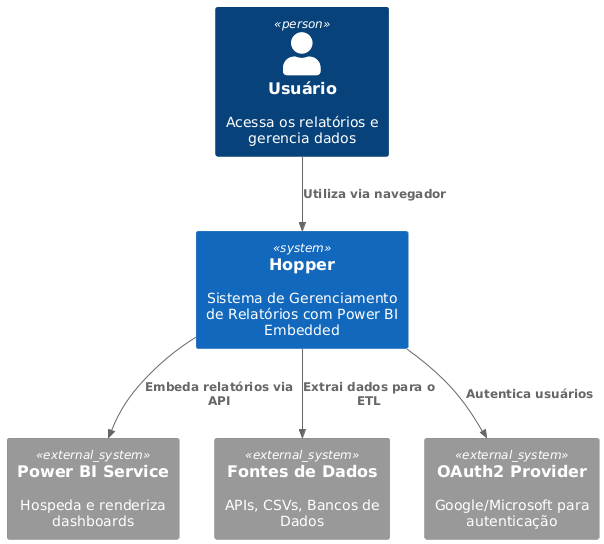
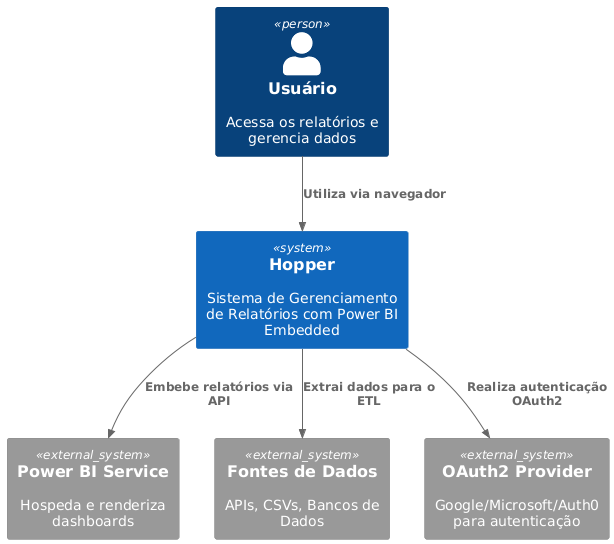
Update README to enhance project context and objectives; replace outdated diagrams

diff --git a/README.md b/README.md
@@ -19,18 +19,27 @@ Em ambientes corporativos que lidam com grandes volumes de dados, equipes de neg
 
 ## 1. Introdução
 
-- **Contexto**: Organizações modernas demandam relatórios precisos e personalizados para apoiar a tomada de decisão. No entanto, processos manuais de ETL e a distribuição descentralizada de relatórios geram gargalos de eficiência, atrasos na entrega de insights e riscos de segurança.
-- **Justificativa**: O Hopper mitiga esses desafios ao orquestrar pipelines de dados com Apache Airflow, automatizando a extração, transformação e carga de informações, e centralizando dashboards no Power BI Embedded. Dessa forma, o sistema reduz erros manuais, acelera a disponibilização de insights e fortalece a governança de dados.
-- **Objetivos**: O objetivo principal é oferecer uma plataforma que automatiza o fluxo de ETL e disponibiliza dashboards interativos. Objetivos secundários incluem implementar controle de acesso granular, monitorar métricas de execução e permitir o gerenciamento de relatórios.
+A construção de um sistema como o Hopper se justifica pela necessidade crescente de automatizar e padronizar o tratamento de dados em empresas que buscam agilidade, confiabilidade e segurança na geração de relatórios. Soluções manuais são propensas a erros, dificultam a escalabilidade e aumentam o risco de exposição de informações sensíveis. Ao centralizar o gerenciamento de pipelines ETL usando o Apache Airflow e a distribuição de dashboards com o Power BI Embedded, o Hopper reduz custos operacionais, melhora a governança de dados e permite que as equipes foquem na análise estratégica, em vez de tarefas repetitivas e suscetíveis a falhas.
+
+O Apache Airflow é uma plataforma open source de orquestração de workflows, projetada para programar, monitorar e gerenciar pipelines de dados complexos de forma programática e escalável. Utilizando DAGs (Directed Acyclic Graphs), o Airflow permite a definição explícita de dependências, agendamento e execução de tarefas, além de oferecer integração nativa com diversos sistemas de armazenamento, bancos de dados e serviços em nuvem. Sua arquitetura modular e extensível facilita a automação de processos ETL, garantindo rastreabilidade, reprocessamento eficiente e monitoramento detalhado das execuções, aspectos essenciais para ambientes corporativos que demandam alta confiabilidade e auditabilidade no tratamento de dados.
+
+O Power BI Embedded é um serviço da Microsoft Azure que permite incorporar dashboards e relatórios interativos do Power BI diretamente em aplicações web ou portais internos de empresas. Diferente do Power BI tradicional, que é acessado via portal próprio, o Embedded oferece APIs e SDKs para que desenvolvedores possam integrar visualizações de dados personalizadas e seguras em suas próprias soluções, proporcionando uma experiência de análise de dados fluida para os usuários finais, sem a necessidade de alternar entre diferentes plataformas. Isso facilita o acesso a informações estratégicas, mantendo o controle de acesso e a segurança dos dados conforme as necessidades do negócio.
+
+**Objetivos**
+
+O projeto visa criar uma plataforma capaz de automatizar todo o fluxo de ETL (Extração, Transformação e Carga de dados), eliminando tarefas manuais e reduzindo erros no tratamento de informações. Além disso, busca disponibilizar dashboards interativos utilizando o Power BI Embedded, permitindo que usuários acessem relatórios atualizados e visualizações dinâmicas diretamente pela aplicação, sem depender de múltiplas ferramentas ou processos manuais.
+
+Entre os objetivos complementares, destaca-se a implementação de um controle de acesso granular, garantindo que cada usuário visualize apenas os dados pertinentes ao seu perfil ou função. O sistema também irá monitorar métricas de execução dos pipelines e relatórios, fornecendo indicadores de desempenho e alertas para possíveis falhas ou gargalos. Por fim, será possível gerenciar relatórios de forma centralizada, facilitando o upload, atualização e organização dos dashboards dentro da plataforma.
 
 ## 2. Descrição do Projeto
+- **Tema do Projeto**: Desenvolvimento de uma plataforma de gerenciamento e distribuição de relatórios dinâmicos, chamada Hopper, que automatiza o processo de ETL e utiliza o Power BI Embedded para visualização de dados.
 
-- **Tema do Projeto**: Desenvolvimento de uma plataforma de gerenciamento e distribuição de relatórios dinâmicos, chamada Hopper, que automatiza o processo de ETL e utiliza Power BI Embedded para visualização de dados.
 - **Problemas a Resolver**:
   - Atrasos e inconsistências na consolidação e análise manual de dados.
   - Gargalos de eficiência em processos de ETL.
   - Riscos de segurança na distribuição de relatórios.
-  - Falta de relatórios atualizados e escaláveis para decisões estratégicas.
+  - Falta de relatórios atualizado para decisões estratégicas.
+  
 - **Limitações**: O projeto não abordará a criação de visualizações customizadas além das capacidades do Power BI, nem o desenvolvimento de algoritmos de machine learning para análise preditiva. A gestão de infraestrutura de hardware subjacente fica a cargo dos serviços de nuvem (Render.com).
 
 ## 3. Especificação Técnica
@@ -45,15 +54,15 @@ Descrição detalhada da proposta, incluindo requisitos de software, protocolos,
     - **RF01:** O sistema deve permitir a configuração de pipelines ETL.
     - **RF02:** O sistema deve permitir a execução automatizada de pipelines.
     - **RF03:** O sistema deve extrair dados de múltiplas fontes.
-    - **RF04:** O sistema deve transformar dados (limpeza, enriquecimento, agregação).
+    - **RF04:** O sistema deve transformar dados.
     - **RF05:** O sistema deve realizar carga incremental de dados no banco.
     - **RF06:** O sistema deve permitir autenticação de usuários.
-    - **RF07:** O sistema deve aplicar regras de segurança em nível de linha (RLS).
+    - **RF07:** O sistema deve aplicar regras de segurança em nível de linha.
     - **RF08:** O sistema deve permitir upload e gerenciamento de relatórios.
     - **RF09:** O sistema deve ser capaz de publicar dashboards.
     - **RF10:** O sistema deve permitir atualização programada dos relatórios.
-    - **RF11:** O sistema deve gerar relatórios.
     - **RF12:** O sistema deve monitorar métricas de execução.
+    - **RF13:** O sistema deve permitir gerenciamento de relatórios.
 
   - **Requisitos Não Funcionais (RNF):**
     - **RNF01:** O sistema deve definir cargos (Admin, Analista, Visualizador) e integrar com provedores OAuth2.
@@ -70,7 +79,6 @@ Descrição detalhada da proposta, incluindo requisitos de software, protocolos,
 
 <p align="center">
   <img src="docs/images/Hopper_Casos_de_Uso.png">
-<!-- ![Casos de Uso](docs/images/Hopper_Casos_de_Uso.png) -->
 </p>
 
 ### 3.2. Considerações de Design
@@ -86,7 +94,6 @@ Descrição detalhada da proposta, incluindo requisitos de software, protocolos,
 
 <p align="center">
   <img src="docs/images/c1_diagrama_contexto.png">
-  <!-- ![Diagrama de Contexto](docs/images/c1_diagrama_contexto.png) -->
 </p>
 
 <div style="page-break-after: always;"></div>
@@ -99,7 +106,7 @@ Descrição detalhada da proposta, incluindo requisitos de software, protocolos,
 
 #### Diagrama de Componentes
 
-<div style="display: flex; justify-content: center; align-items: center; height: 100vh;">
+<div style="display: flex; justify-cont ent: center; align-items: center; height: 100vh;">
   <img src="docs/images/c3_diagrama_componentes.png" alt="Diagrama de Componentes" style="max-height: 100vh; max-width: 125vw; transform: rotate(90deg); display: block;">
 </div>
 
